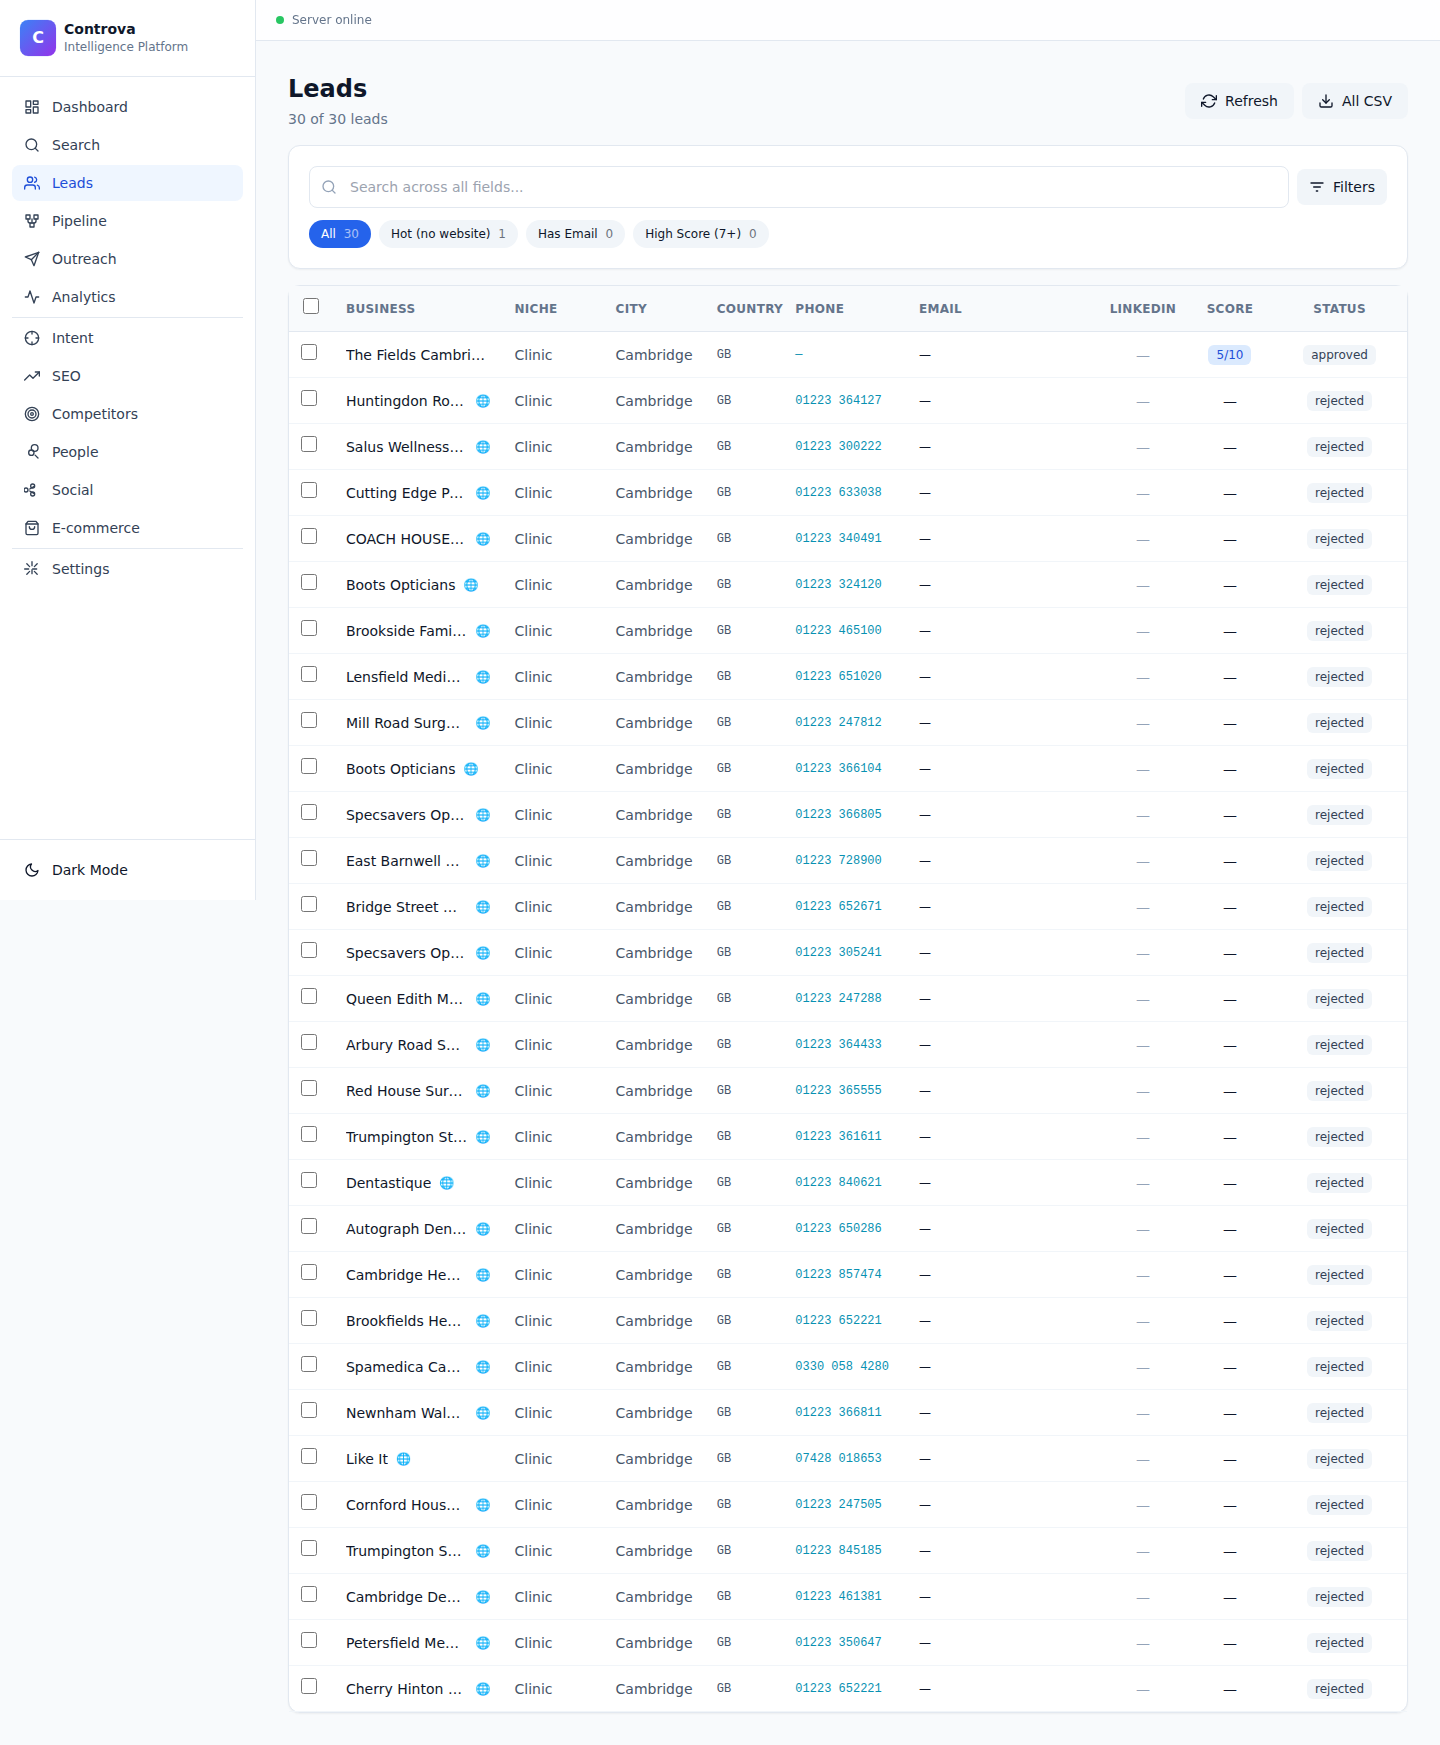
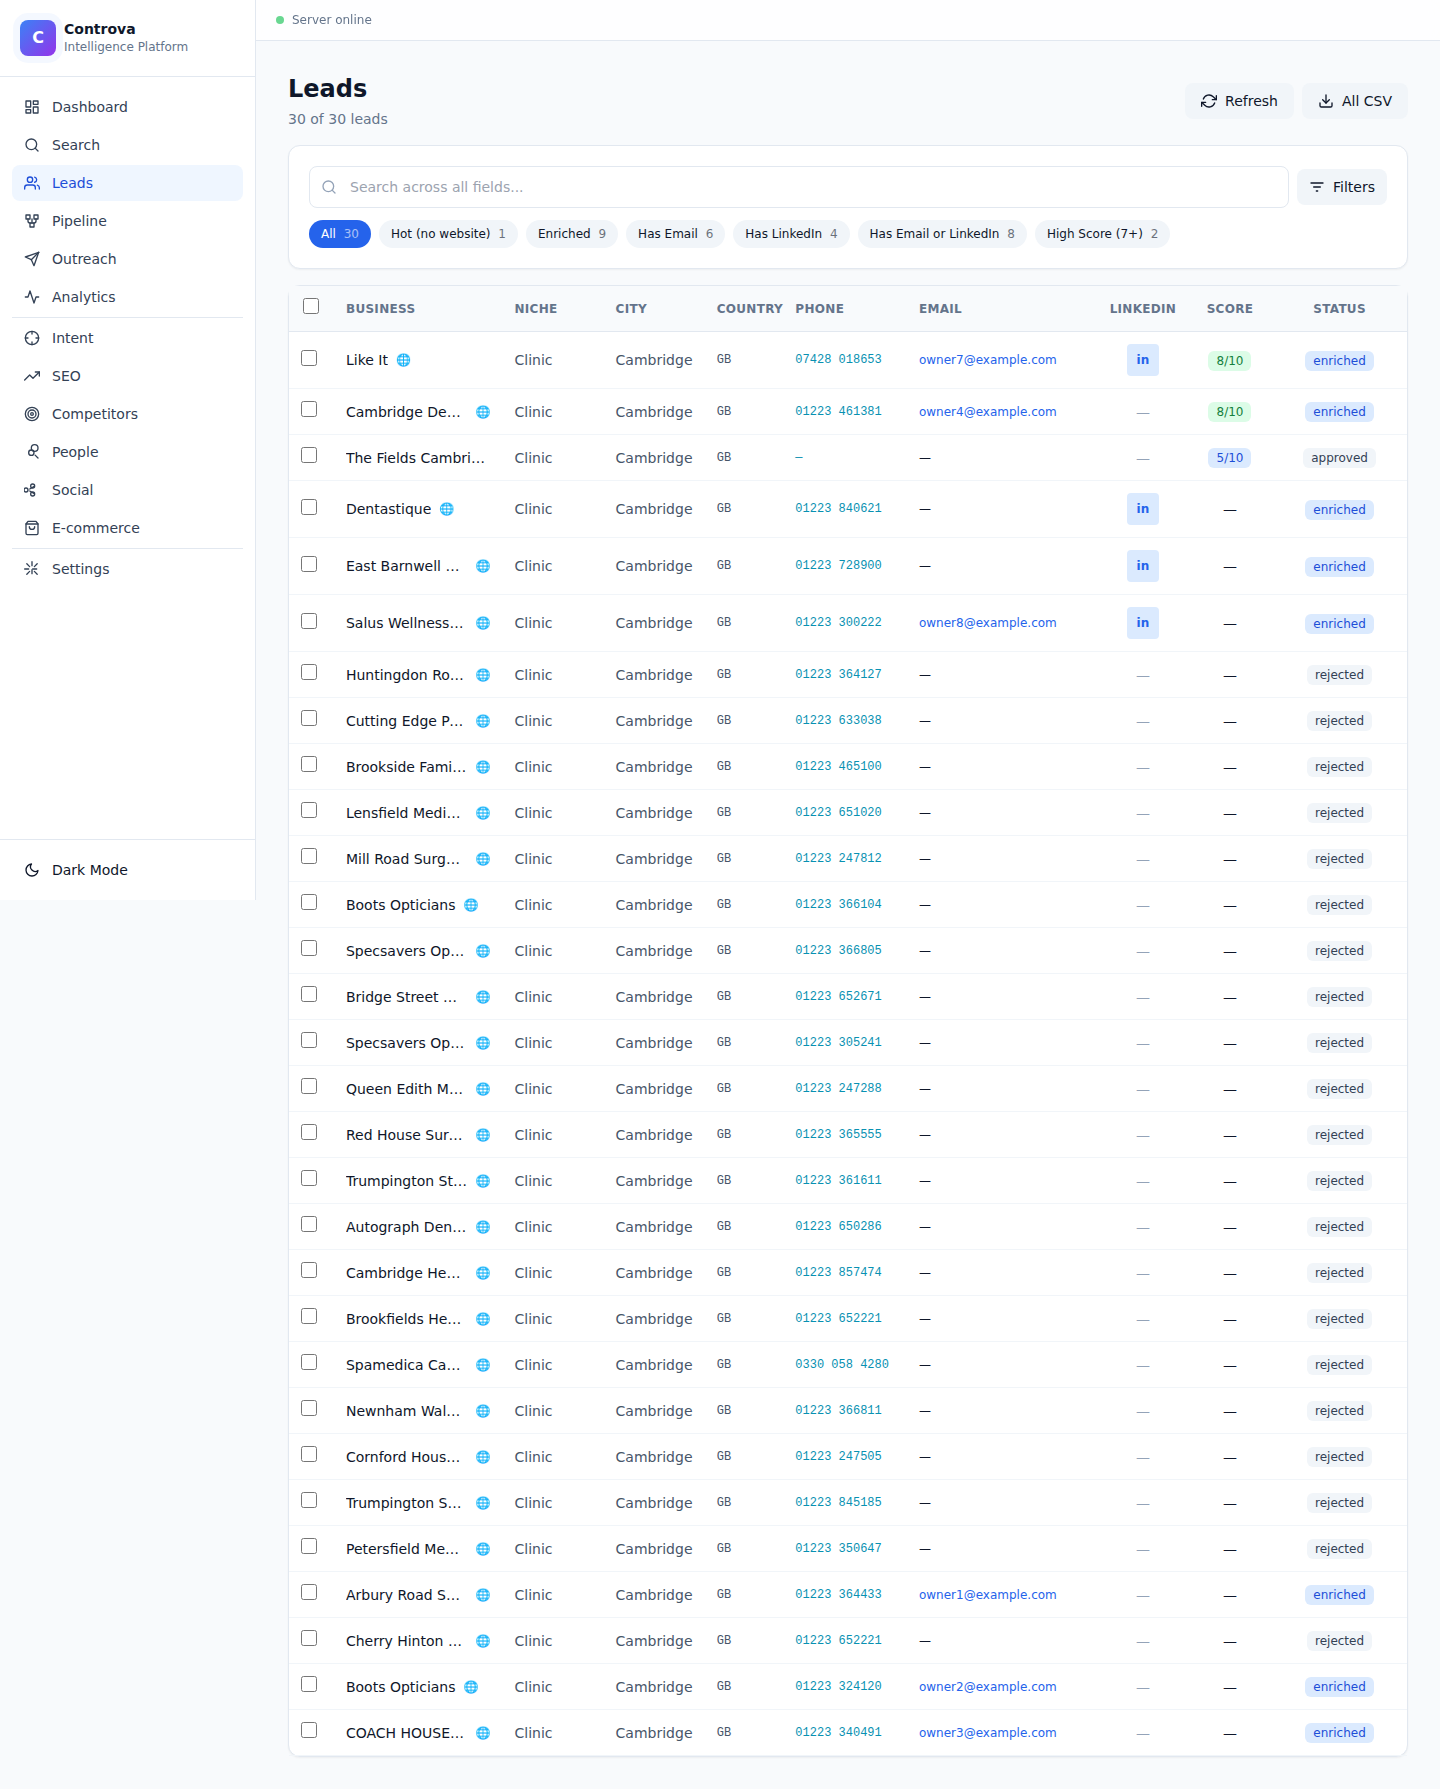
Default Claude auto-email-copy to OFF, add Enriched/LinkedIn/Contact filters
Two changes to keep users from burning Claude credits unintentionally
and to make enriched leads easier to find:

1. Default auto_email_copy to FALSE
   - server/leads_api.py CONFIG default flipped
   - server/config.json.template flipped to match
   - Fresh installs no longer call Claude until explicitly enabled
     via Settings > Pipeline Automation

2. Three new quick-filter chips on the Leads page
   - 'Enriched'  -> leads past the enrichment step
                    (status not in discovered/rejected)
   - 'Has LinkedIn' -> linkedin_url present
   - 'Has Email or LinkedIn' -> either contact channel available
   Each chip shows a live count next to the label.

https://claude.ai/code/session_012Wj8LMNqACMpauP9Ku6QcB

diff --git a/server/dashboard.html b/server/dashboard.html
@@ -619,7 +619,10 @@ const LeadsPage = () => {
   const filtered = useMemo(() => {
     let r = leads;
     if (filter === 'hot') r = r.filter(l => (l.lead_type || '').indexOf('HOT') !== -1);
+    else if (filter === 'enriched') r = r.filter(l => !['discovered', 'rejected'].includes(l.status));
     else if (filter === 'with_email') r = r.filter(l => l.owner_email);
+    else if (filter === 'with_linkedin') r = r.filter(l => l.linkedin_url);
+    else if (filter === 'with_contact') r = r.filter(l => l.owner_email || l.linkedin_url);
     else if (filter === 'scored') r = r.filter(l => parseInt(l.ai_score) >= 7);
     if (search) {
       const q = search.toLowerCase();
@@ -762,10 +765,13 @@ const LeadsPage = () => {
 
           <div className="flex gap-2 flex-wrap">
             {[
-              { id: 'all', label: 'All', count: leads.length },
-              { id: 'hot', label: 'Hot (no website)', count: leads.filter(l => (l.lead_type || '').indexOf('HOT') !== -1).length },
-              { id: 'with_email', label: 'Has Email', count: leads.filter(l => l.owner_email).length },
-              { id: 'scored', label: 'High Score (7+)', count: leads.filter(l => parseInt(l.ai_score) >= 7).length },
+              { id: 'all',           label: 'All',                count: leads.length },
+              { id: 'hot',           label: 'Hot (no website)',   count: leads.filter(l => (l.lead_type || '').indexOf('HOT') !== -1).length },
+              { id: 'enriched',      label: 'Enriched',           count: leads.filter(l => !['discovered', 'rejected'].includes(l.status)).length },
+              { id: 'with_email',    label: 'Has Email',          count: leads.filter(l => l.owner_email).length },
+              { id: 'with_linkedin', label: 'Has LinkedIn',       count: leads.filter(l => l.linkedin_url).length },
+              { id: 'with_contact',  label: 'Has Email or LinkedIn', count: leads.filter(l => l.owner_email || l.linkedin_url).length },
+              { id: 'scored',        label: 'High Score (7+)',    count: leads.filter(l => parseInt(l.ai_score) >= 7).length },
             ].map(f => (
               <button key={f.id} onClick={() => setFilter(f.id)}
                 className={'px-3 py-1.5 rounded-full text-xs font-medium transition-colors ' + (

diff --git a/server/leads_api.py b/server/leads_api.py
@@ -41,7 +41,7 @@ CONFIG = {
     'enrichment_fallback': 'oxylabs',     # oxylabs | none
     'image_provider': 'none',             # none | replicate | imagine_art
     'auto_score': True,                   # Run Gemini scoring during pipeline
-    'auto_email_copy': True,              # Run Claude email writing
+    'auto_email_copy': False,             # Claude email writing OFF by default (saves credits)
     'auto_image': False,                  # Image generation OFF by default
 }
 
